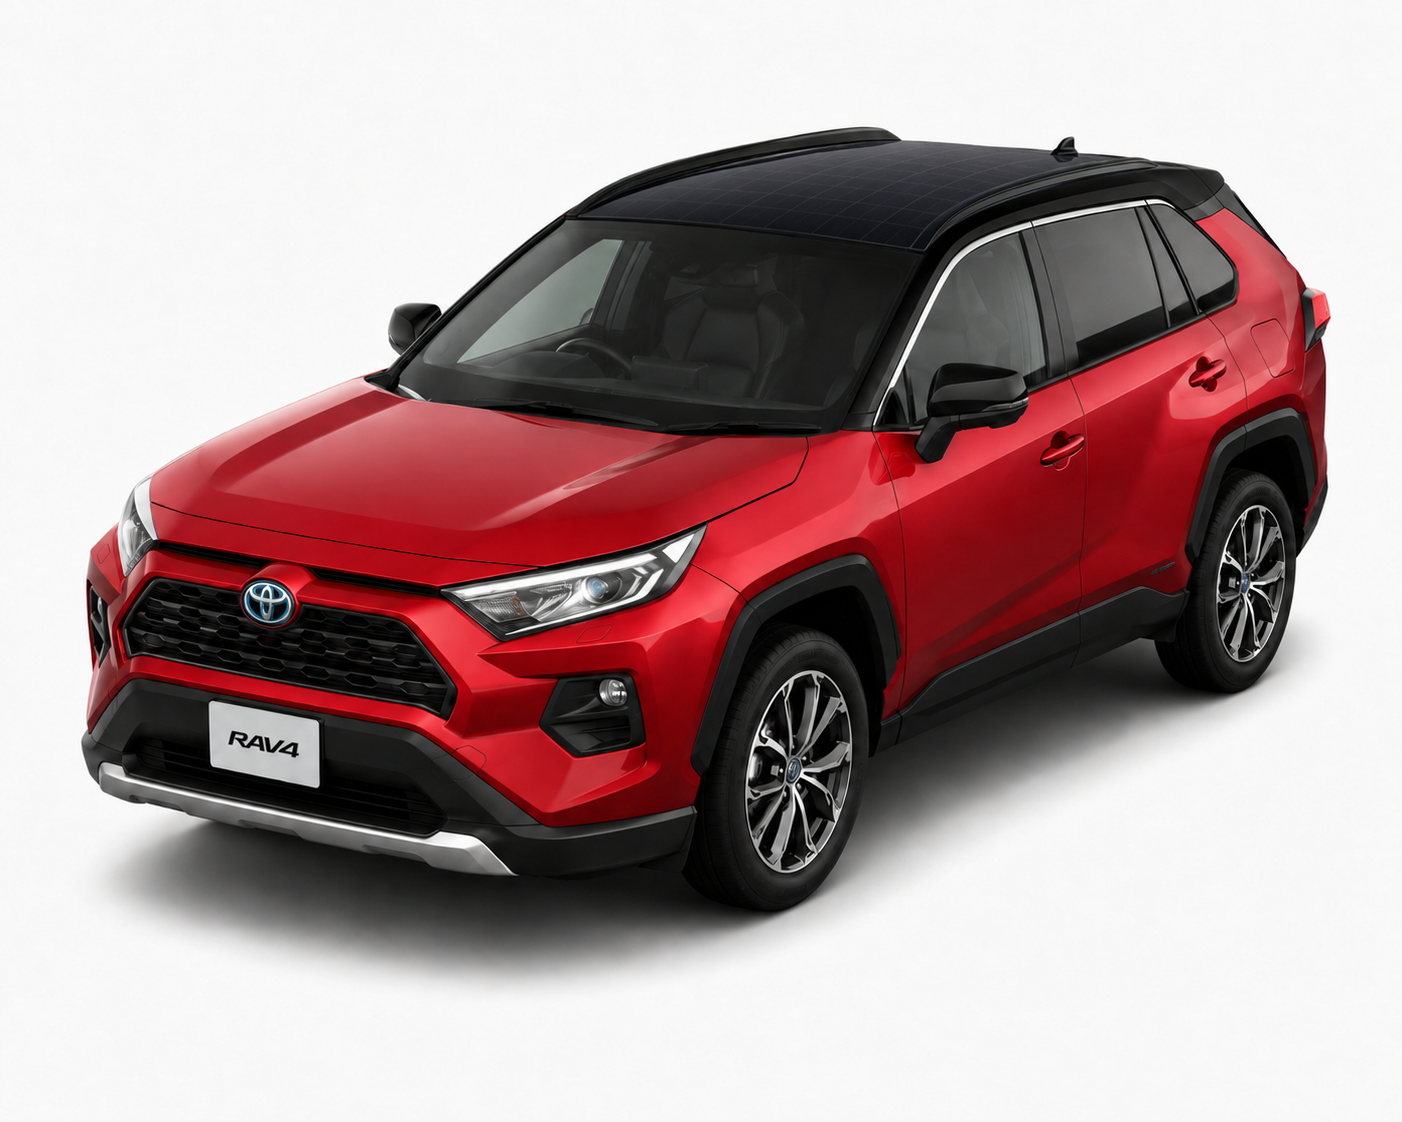
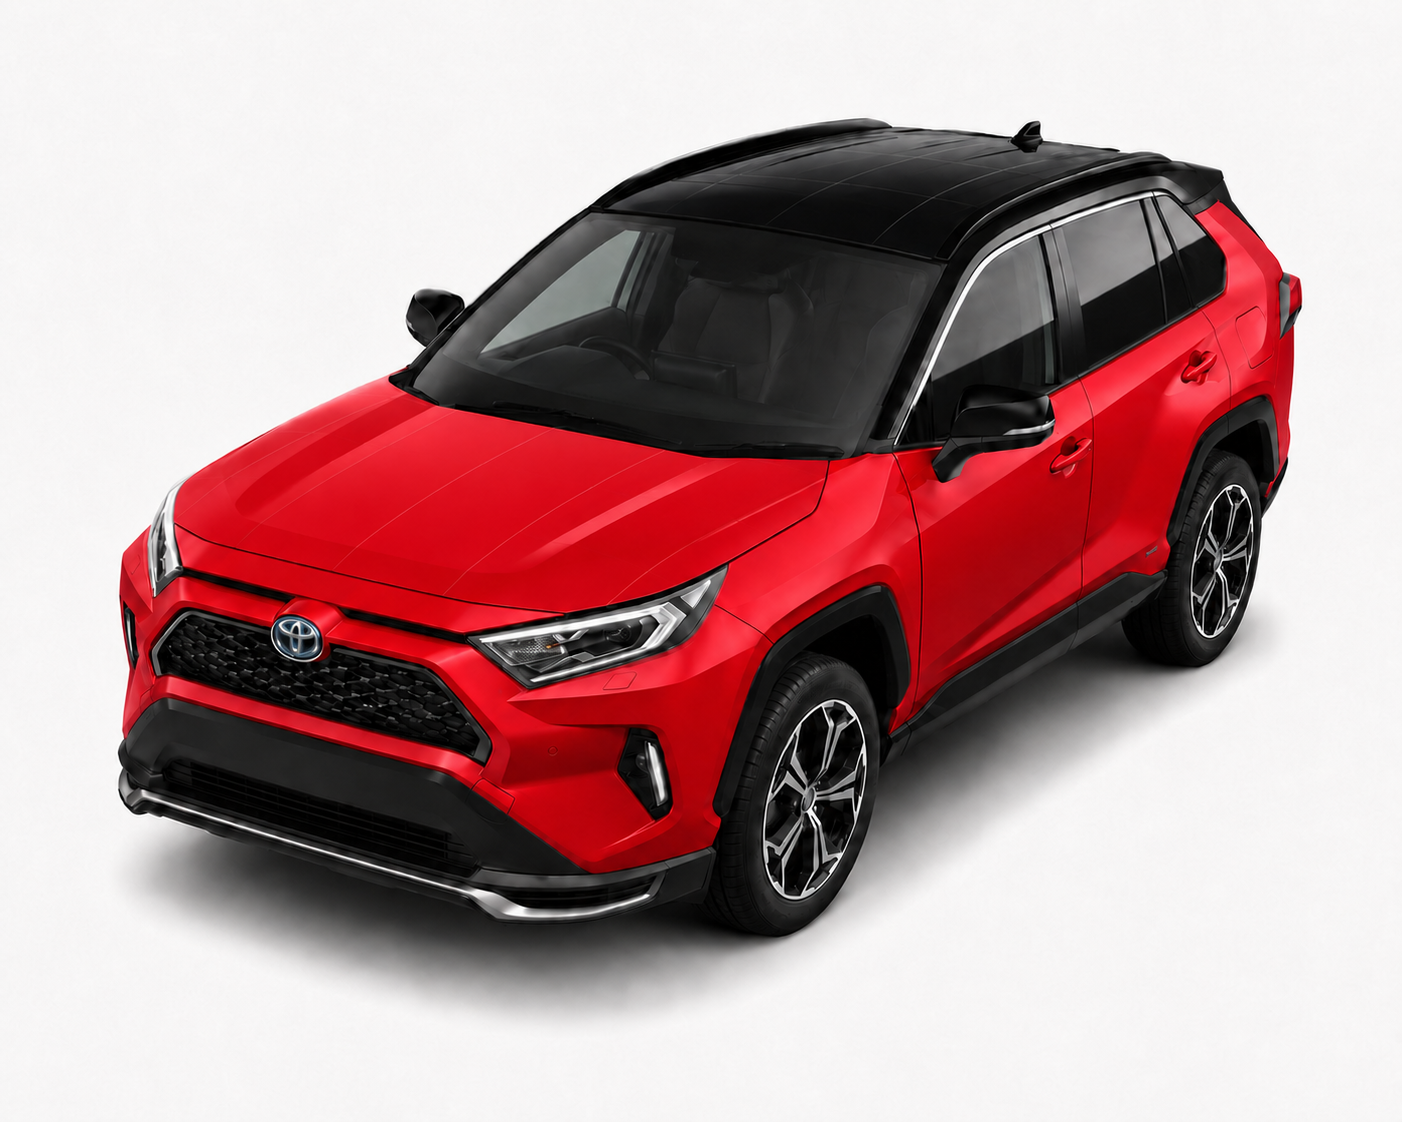
RAV4画像更新・パーツカラーモードにリアガラスワイプ追加（右上）

diff --git a/index.html b/index.html
@@ -108,6 +108,7 @@ header h1 { font-size: 13px; font-weight: normal; letter-spacing: 0.06em; }
   flex: 1; min-height: 0;
   display: flex;
   background: #fff;
+  position: relative;
 }
 #panel-main {
   flex: 1; min-width: 0; height: 100%;
@@ -117,6 +118,20 @@ header h1 { font-size: 13px; font-weight: normal; letter-spacing: 0.06em; }
   overflow: hidden;
 }
 #panel-main.parts-mode { outline: 2px solid #3a9a4a; outline-offset: -2px; }
+
+/* パーツカラーモード時のリアガラスワイプ（右上角） */
+#panel-rg-parts {
+  display: none;
+  position: absolute;
+  top: 12px; right: 12px;
+  width: 24%; height: 42%;
+  background: #fff;
+  border-radius: 8px;
+  border: 1.5px solid #3a9a4a44;
+  box-shadow: 0 4px 16px rgba(0,0,0,0.12);
+  overflow: hidden;
+}
+#panel-rg-parts.visible { display: flex; align-items: center; justify-content: center; }
 
 /* ── ビュー2 / ビュー3 共通レイアウト（2列グリッド） ── */
 #view2-area, #view3-area {
@@ -262,6 +277,18 @@ header h1 { font-size: 13px; font-weight: normal; letter-spacing: 0.06em; }
       </div>
     </div>
   </div>
+  <!-- パーツカラーモード時のみ表示されるリアガラスワイプ -->
+  <div id="panel-rg-parts">
+    <div class="img-slot" style="padding:6px;">
+      <img id="img-rg-parts" alt="" />
+      <div class="no-img" id="no-rg-parts">
+        <svg width="28" height="28" viewBox="0 0 24 24" fill="none" stroke="#aaa" stroke-width="1.2">
+          <rect x="3" y="3" width="18" height="18" rx="2"/><line x1="3" y1="3" x2="21" y2="21"/>
+        </svg>
+        未準備
+      </div>
+    </div>
+  </div>
 </div>
 
 <!-- ビュー2：正面 ＋ 真後ろ -->
@@ -383,6 +410,11 @@ function maushiroPath() {
   return `${car}/${car}_真後ろ_パネル有りなし併用_${COLOR_FILE[color]}${getSfx(car, color, false)}.png`;
 }
 
+/* パーツカラーモード時のリアガラスワイプ */
+function rgPartsPath() {
+  return `${state.car}/${state.car}_リアガラス_パーツカラー_${COLOR_FILE[state.color]}.png`;
+}
+
 /* ビュー3：白固定でリアガラス比較 */
 function v3NormalPath() {
   return `${state.car}/${state.car}_リアガラス_パネルなし_白.png`;
@@ -413,6 +445,7 @@ function updateAll() {
   document.getElementById('car-value').textContent = state.car;
   if (state.view === 1) {
     load('img-main', 'no-main', mainPath());
+    if (state.partsColor) load('img-rg-parts', 'no-rg-parts', rgPartsPath());
   } else if (state.view === 2) {
     load('img-shomen', 'no-shomen', shomenPath());
     const img = document.getElementById('img-maushiro');
@@ -471,6 +504,7 @@ function applyPartsColorMode() {
   });
 
   document.getElementById('panel-main').classList.toggle('parts-mode', on);
+  document.getElementById('panel-rg-parts').classList.toggle('visible', on);
 }
 
 /* ── ビュー切替 ── */